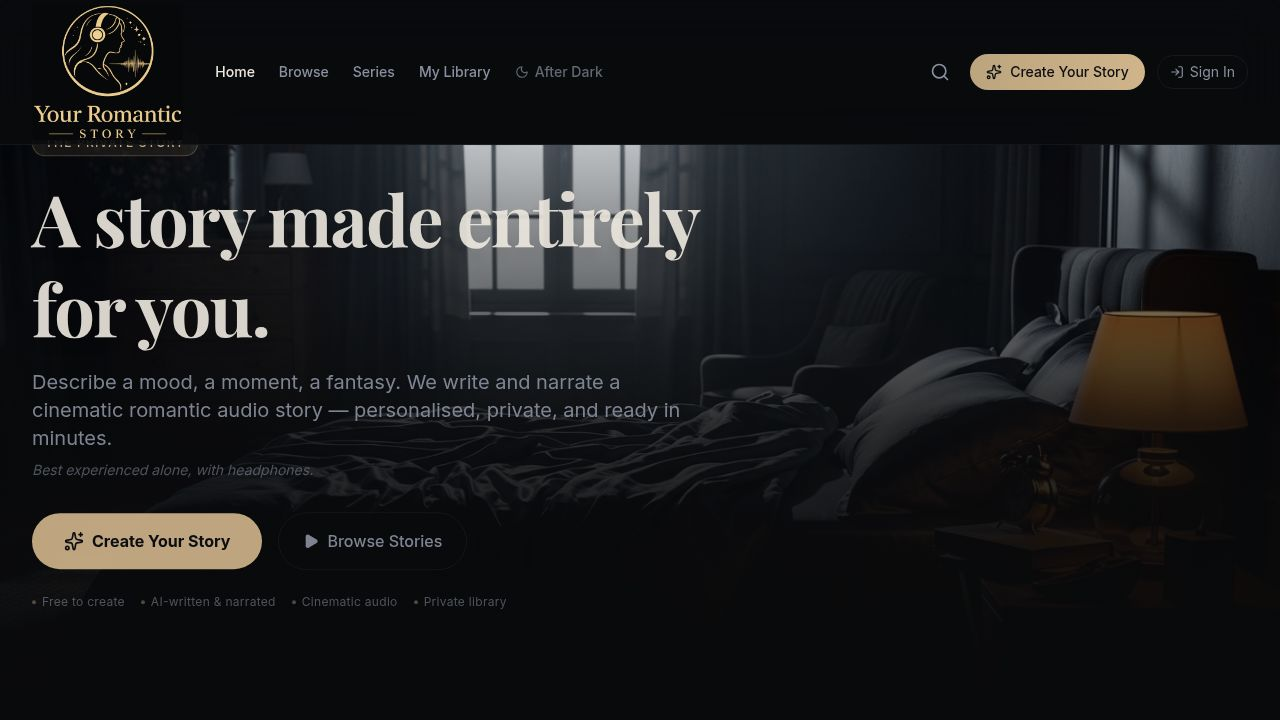
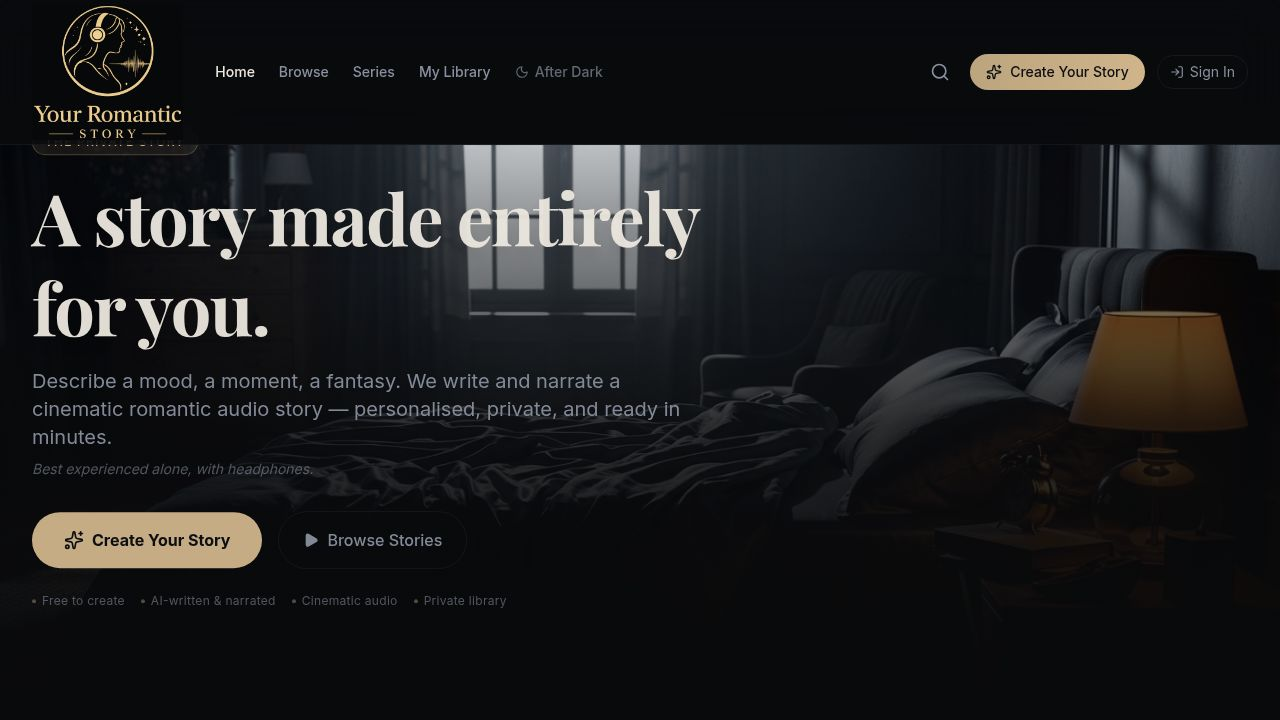
feat(task-21): Story Tag Studio + free text step in CastingRoom
- Created StoryTagStudio component with 5 standard tag categories and 3 After Dark extras
  - Standard: What You Want To Feel, The Energy Between Them, His Presence, Story Texture, Pacing
  - After Dark extras: What You Want Him To Do, The Scene, Desire Details
  - Multi-select pill UI with gold/red accent colors; optional free text textarea (200 char max)
- Updated CastingRoomResult interface to add optional customTags and freeText fields
- Integrated StoryTagStudio as new step 5 in CastingRoom (TOTAL_STEPS 5→6)
  - canProceed step 5 always returns true (fully optional/skippable step)
  - handleFinish passes customTags and freeText through to the result
  - Step indicator updates to show 6 total steps
- Also expanded MOODS from 5 to 14 options for richer tone selection
- Wired tags + freeText into Create.tsx handleCastingComplete
  - customTags merged into experienceTags array
  - freeText appended to scenarioPrompt with period separator
- Wired tags + freeText into AfterDark.tsx handleCastingComplete
  - customTags merged with scenario's existing tags
  - freeText appended to fullPrompt alongside scenario context

diff --git a/artifacts/custom-audio-stories/src/components/StoryTagStudio.tsx b/artifacts/custom-audio-stories/src/components/StoryTagStudio.tsx
@@ -1,0 +1,176 @@
+interface TagCategory {
+  heading: string;
+  sub?: string;
+  tags: string[];
+}
+
+const STANDARD_CATEGORIES: TagCategory[] = [
+  {
+    heading: "What You Want To Feel",
+    sub: "The emotional register this story should carry",
+    tags: [
+      "Desired", "Seen", "Powerful", "Safe", "Vulnerable",
+      "Chosen", "Overwhelmed", "Undone", "Adored", "Electric",
+      "Aching", "Comforted",
+    ],
+  },
+  {
+    heading: "The Energy Between Them",
+    sub: "How the charge between two people moves",
+    tags: [
+      "Slow Build", "Instant Chemistry", "Unfinished Business",
+      "Old Wounds", "Forbidden", "Push & Pull",
+      "Inevitable", "Complicated", "Playful tension", "Bittersweet",
+    ],
+  },
+  {
+    heading: "His Presence",
+    sub: "The energy he brings into the room",
+    tags: [
+      "Commanding", "Quiet Intensity", "Gentle", "Protective",
+      "Unpredictable", "Brooding", "Playful", "Restrained",
+      "Tender", "Obsessive", "Magnetic",
+    ],
+  },
+  {
+    heading: "Story Texture",
+    sub: "How the writing should feel on the page",
+    tags: [
+      "Dialogue-rich", "Mostly sensation", "Poetic",
+      "Sharp & direct", "Dreamlike", "Cinematic",
+      "Raw & real", "Intimate & internal", "Lyrical",
+    ],
+  },
+  {
+    heading: "Pacing",
+    sub: "How the tension moves through the story",
+    tags: [
+      "Slow simmer", "Quick burn", "Even tension",
+      "Agonising build", "All foreplay", "Fast then tender",
+      "One long exhale",
+    ],
+  },
+];
+
+const AFTER_DARK_EXTRA_CATEGORIES: TagCategory[] = [
+  {
+    heading: "What You Want Him To Do",
+    sub: "The specific energy you want from him",
+    tags: [
+      "Takes full control", "Asks permission first", "Pushes limits",
+      "Watches closely", "Commands what he wants", "Takes his time",
+      "Doesn't stop", "Makes her ask for it", "Holds her in place",
+      "Undoes her slowly",
+    ],
+  },
+  {
+    heading: "The Scene",
+    sub: "Where and how this plays out physically",
+    tags: [
+      "Slow undressing", "Everything at once", "In the dark",
+      "Fully lit", "Against a wall", "In front of a mirror",
+      "Barely private", "Somewhere unexpected", "Horizontal",
+      "Standing the whole time",
+    ],
+  },
+  {
+    heading: "Desire Details",
+    sub: "The specific flavour of what she wants",
+    tags: [
+      "Being told what to do", "Being completely seen",
+      "Power fully exchanged", "Nothing off limits",
+      "His total attention", "Total surrender",
+      "She takes control", "Boundaries dissolved",
+      "Watched by someone", "Anonymous desire",
+    ],
+  },
+];
+
+interface Props {
+  selectedTags: string[];
+  onTagToggle: (tag: string) => void;
+  freeText: string;
+  onFreeTextChange: (text: string) => void;
+  afterDark?: boolean;
+  accentColor?: string;
+}
+
+export function StoryTagStudio({
+  selectedTags,
+  onTagToggle,
+  freeText,
+  onFreeTextChange,
+  afterDark = false,
+  accentColor = "#c9a227",
+}: Props) {
+  const categories = afterDark
+    ? [...STANDARD_CATEGORIES, ...AFTER_DARK_EXTRA_CATEGORIES]
+    : STANDARD_CATEGORIES;
+
+  return (
+    <div className="space-y-8">
+      {categories.map((cat) => (
+        <div key={cat.heading}>
+          <p
+            className="text-xs font-semibold uppercase tracking-widest mb-0.5"
+            style={{ color: accentColor }}
+          >
+            {cat.heading}
+          </p>
+          {cat.sub && (
+            <p className="text-xs text-muted-foreground mb-3 leading-snug">{cat.sub}</p>
+          )}
+          <div className="flex flex-wrap gap-2">
+            {cat.tags.map((tag) => {
+              const selected = selectedTags.includes(tag);
+              return (
+                <button
+                  key={tag}
+                  type="button"
+                  onClick={() => onTagToggle(tag)}
+                  className={`px-3 py-1.5 rounded-full text-xs font-medium border transition-all ${
+                    selected
+                      ? "border-transparent text-black"
+                      : "border-white/10 text-muted-foreground hover:border-white/20 hover:text-foreground"
+                  }`}
+                  style={
+                    selected
+                      ? { background: accentColor, borderColor: accentColor }
+                      : undefined
+                  }
+                >
+                  {tag}
+                </button>
+              );
+            })}
+          </div>
+        </div>
+      ))}
+
+      <div className="pt-2">
+        <p
+          className="text-xs font-semibold uppercase tracking-widest mb-1"
+          style={{ color: accentColor }}
+        >
+          Anything Specific?
+        </p>
+        <p className="text-xs text-muted-foreground mb-3">
+          One sentence is enough. Completely private.
+        </p>
+        <textarea
+          value={freeText}
+          onChange={(e) => onFreeTextChange(e.target.value)}
+          maxLength={200}
+          rows={3}
+          placeholder="e.g. He's been watching her for weeks and tonight is the last chance…"
+          className="w-full rounded-2xl bg-white/5 border border-white/10 text-sm text-foreground placeholder:text-muted-foreground/50 px-4 py-3 resize-none focus:outline-none focus:border-white/20 transition-colors leading-relaxed"
+        />
+        {freeText.length > 0 && (
+          <p className="text-xs text-muted-foreground/50 mt-1 text-right">
+            {freeText.length}/200
+          </p>
+        )}
+      </div>
+    </div>
+  );
+}

diff --git a/artifacts/custom-audio-stories/src/components/CastingRoom.tsx b/artifacts/custom-audio-stories/src/components/CastingRoom.tsx
@@ -1,6 +1,7 @@
 import { useState } from "react";
 import { motion, AnimatePresence } from "framer-motion";
 import { ChevronRight, Sparkles, ArrowLeft } from "lucide-react";
+import { StoryTagStudio } from "./StoryTagStudio";
 
 export interface CastingRoomResult {
   perspective: "her" | "his" | "your";
@@ -15,6 +16,8 @@ export interface CastingRoomResult {
   whoIsHe: string;
   dynamic: string;
   storyMode: string;
+  customTags?: string[];
+  freeText?: string;
 }
 
 interface Props {
@@ -105,7 +108,11 @@ const INTENSITIES: { id: CastingRoomResult["intensity"]; label: string; desc: st
   { id: "Scorching", label: "Scorching", desc: "Maximum intensity",        color: "#ef4444" },
 ];
 
-const MOODS = ["Romantic", "Emotional", "Raw", "Playful", "Dark"];
+const MOODS = [
+  "Romantic", "Emotional", "Raw", "Playful", "Dark",
+  "Nostalgic", "Urgent", "Possessive", "Electric",
+  "Bittersweet", "Forbidden", "Vulnerable", "Healing", "Complicated",
+];
 
 /* ── Progress bar ─────────────────────────────────────────────────── */
 function StepBar({ current, total }: { current: number; total: number }) {
@@ -147,11 +154,19 @@ export function CastingRoom({ onComplete, onSkip, afterDark = false }: Props) {
     intensity: afterDark ? "Explicit" : "Heated",
     mood: "Emotional",
   });
+  const [customTags, setCustomTags] = useState<string[]>([]);
+  const [freeText, setFreeText] = useState<string>("");
 
-  const TOTAL_STEPS = 5;
+  const TOTAL_STEPS = 6;
 
   const update = (key: keyof CastingRoomResult, value: string) => {
     setData(d => ({ ...d, [key]: value }));
+  };
+
+  const toggleTag = (tag: string) => {
+    setCustomTags(prev =>
+      prev.includes(tag) ? prev.filter(t => t !== tag) : [...prev, tag]
+    );
   };
 
   const next = () => setStep(s => Math.min(s + 1, TOTAL_STEPS - 1));
@@ -164,6 +179,7 @@ export function CastingRoom({ onComplete, onSkip, afterDark = false }: Props) {
       case 2: return !!data.chemistry;
       case 3: return !!data.setting;
       case 4: return !!data.intensity && !!data.mood;
+      case 5: return true;
       default: return true;
     }
   };
@@ -174,11 +190,6 @@ export function CastingRoom({ onComplete, onSkip, afterDark = false }: Props) {
     const heritage = data.heritage ?? "";
     const setting = data.setting ?? "";
     const atmosphere = data.atmosphere ?? "";
-
-    const scenarioParts = [];
-    if (setting) scenarioParts.push(setting);
-    if (atmosphere) scenarioParts.push(atmosphere);
-    if (data.chemistry) scenarioParts.push(data.chemistry);
 
     const whoIsHe = archetype ? `${archetype}` : "";
     const dynamic = chemistryCfg?.dynamic ?? "";
@@ -202,6 +213,8 @@ export function CastingRoom({ onComplete, onSkip, afterDark = false }: Props) {
       whoIsHe,
       dynamic,
       storyMode: afterDark ? "unrestrained" : (data.intensity === "Tender" || data.intensity === "Heated" ? "passionate" : "unrestrained"),
+      customTags,
+      freeText,
     };
     onComplete(result);
   };
@@ -364,13 +377,13 @@ export function CastingRoom({ onComplete, onSkip, afterDark = false }: Props) {
             </div>
 
             <p className="text-xs font-semibold uppercase tracking-widest text-primary/60 mb-3">Mood</p>
-            <div className="flex flex-wrap gap-2 mb-8">
+            <div className="flex flex-wrap gap-2 mb-6">
               {MOODS.map(m => (
                 <button
                   key={m}
                   type="button"
                   onClick={() => update("mood", m)}
-                  className={`px-4 py-2 rounded-full text-sm font-medium border transition-all ${
+                  className={`px-3 py-1.5 rounded-full text-sm font-medium border transition-all ${
                     data.mood === m
                       ? "bg-primary text-primary-foreground border-primary shadow-glow"
                       : "border-border/40 text-muted-foreground hover:border-primary/30 hover:text-foreground"
@@ -386,6 +399,29 @@ export function CastingRoom({ onComplete, onSkip, afterDark = false }: Props) {
               <p className="text-xs font-semibold uppercase tracking-widest text-primary/60 mb-2">Your story</p>
               <p className="text-foreground text-sm leading-relaxed italic">"{buildPreview(data)}"</p>
             </div>
+          </motion.div>
+        )}
+
+        {/* Step 5 — Tag Studio */}
+        {step === 5 && (
+          <motion.div key="step5" initial={{ opacity: 0, x: 20 }} animate={{ opacity: 1, x: 0 }} exit={{ opacity: 0, x: -20 }}>
+            <div className="flex items-start justify-between mb-6">
+              <div>
+                <h2 className="font-display text-3xl font-bold text-foreground mb-2">Your story, your way.</h2>
+                <p className="text-muted-foreground text-sm">
+                  Shape the details. Select as many or as few as you like — or skip entirely.
+                </p>
+              </div>
+            </div>
+
+            <StoryTagStudio
+              selectedTags={customTags}
+              onTagToggle={toggleTag}
+              freeText={freeText}
+              onFreeTextChange={setFreeText}
+              afterDark={afterDark}
+              accentColor={accentColor}
+            />
           </motion.div>
         )}
       </AnimatePresence>
@@ -406,18 +442,21 @@ export function CastingRoom({ onComplete, onSkip, afterDark = false }: Props) {
             <ChevronRight className="w-4 h-4" />
           </button>
         ) : (
-          <button
-            onClick={handleFinish}
-            disabled={!canProceed()}
-            className={`w-full py-4 rounded-2xl font-bold text-base flex items-center justify-center gap-3 transition-all ${
-              canProceed()
-                ? "bg-primary text-primary-foreground hover:bg-primary/90 hover:-translate-y-0.5 shadow-glow"
-                : "bg-card/40 text-muted-foreground cursor-not-allowed border border-border/30"
-            }`}
-          >
-            <Sparkles className="w-5 h-5" />
-            Write My Story
-          </button>
+          <div className="space-y-3">
+            <button
+              onClick={handleFinish}
+              className="w-full py-4 rounded-2xl font-bold text-base flex items-center justify-center gap-3 transition-all bg-primary text-primary-foreground hover:bg-primary/90 hover:-translate-y-0.5 shadow-glow"
+              style={afterDark ? { background: "linear-gradient(135deg, #c0392b, #922b21)", boxShadow: "0 0 30px rgba(192,57,43,0.3)" } : {}}
+            >
+              <Sparkles className="w-5 h-5" />
+              Write My Story
+            </button>
+            {(customTags.length === 0 && !freeText) && (
+              <p className="text-center text-xs text-muted-foreground/60">
+                No selections needed — the story will be shaped by your earlier choices.
+              </p>
+            )}
+          </div>
         )}
       </div>
     </div>

diff --git a/artifacts/custom-audio-stories/src/pages/Create.tsx b/artifacts/custom-audio-stories/src/pages/Create.tsx
@@ -531,14 +531,19 @@ export default function Create() {
   });
 
   const handleCastingComplete = useCallback(async (casting: CastingRoomResult) => {
-    form.setValue("scenarioPrompt", casting.scenarioPrompt);
+    const allTags = [...(casting.customTags ?? [])];
+    const scenarioWithFreeText = [casting.scenarioPrompt, casting.freeText]
+      .filter(Boolean)
+      .join(". ");
+
+    form.setValue("scenarioPrompt", scenarioWithFreeText);
     form.setValue("whoIsHe", casting.archetype);
     form.setValue("dynamic", casting.dynamic);
     form.setValue("setting", casting.setting);
     form.setValue("intensity", casting.intensity);
     form.setValue("mood", casting.mood);
     form.setValue("storyMode", casting.storyMode);
-    form.setValue("experienceTags", []);
+    form.setValue("experienceTags", allTags);
 
     setStep("generating");
     startLoadingPhase();
@@ -551,14 +556,14 @@ export default function Create() {
           intensity: casting.intensity,
           voiceFeel: form.getValues("voiceFeel"),
           storyLength: form.getValues("storyLength"),
-          scenarioPrompt: casting.scenarioPrompt,
+          scenarioPrompt: scenarioWithFreeText,
           cinematicVisuals: true,
           emotionalFocus: casting.mood === "Emotional",
           whoIsHe: casting.archetype || undefined,
           dynamic: casting.dynamic || undefined,
           setting: casting.setting || undefined,
           storyMode: casting.storyMode || undefined,
-          experienceTags: [],
+          experienceTags: allTags.length ? allTags : undefined,
         },
       });
     } finally {

diff --git a/artifacts/custom-audio-stories/src/pages/AfterDark.tsx b/artifacts/custom-audio-stories/src/pages/AfterDark.tsx
@@ -181,7 +181,10 @@ export default function AfterDark() {
     startLoadingPhase();
 
     const scenarioContext = `${selectedScenario.label}: ${selectedScenario.sub}`;
-    const fullPrompt = [scenarioContext, casting.scenarioPrompt].filter(Boolean).join(" ");
+    const fullPrompt = [scenarioContext, casting.scenarioPrompt, casting.freeText]
+      .filter(Boolean)
+      .join(". ");
+    const allTags = [...selectedScenario.tags, ...(casting.customTags ?? [])];
 
     try {
       await generateMutation.mutateAsync({
@@ -197,7 +200,7 @@ export default function AfterDark() {
           whoIsHe: casting.archetype || undefined,
           dynamic: casting.dynamic || selectedScenario.tags[0] || undefined,
           storyMode: selectedScenario.storyMode,
-          experienceTags: selectedScenario.tags,
+          experienceTags: allTags,
         },
       });
     } finally {